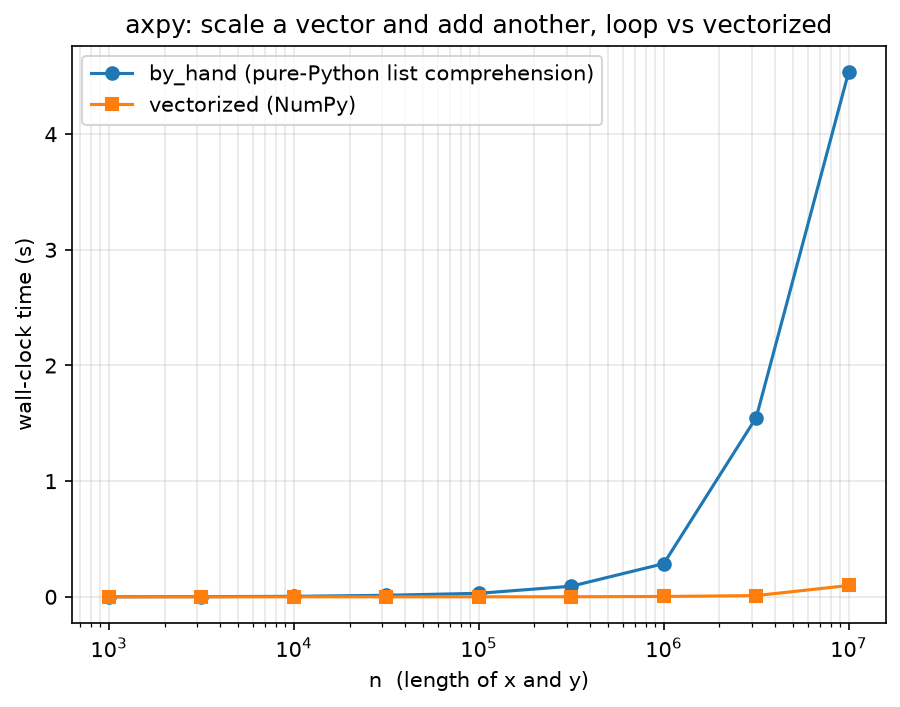
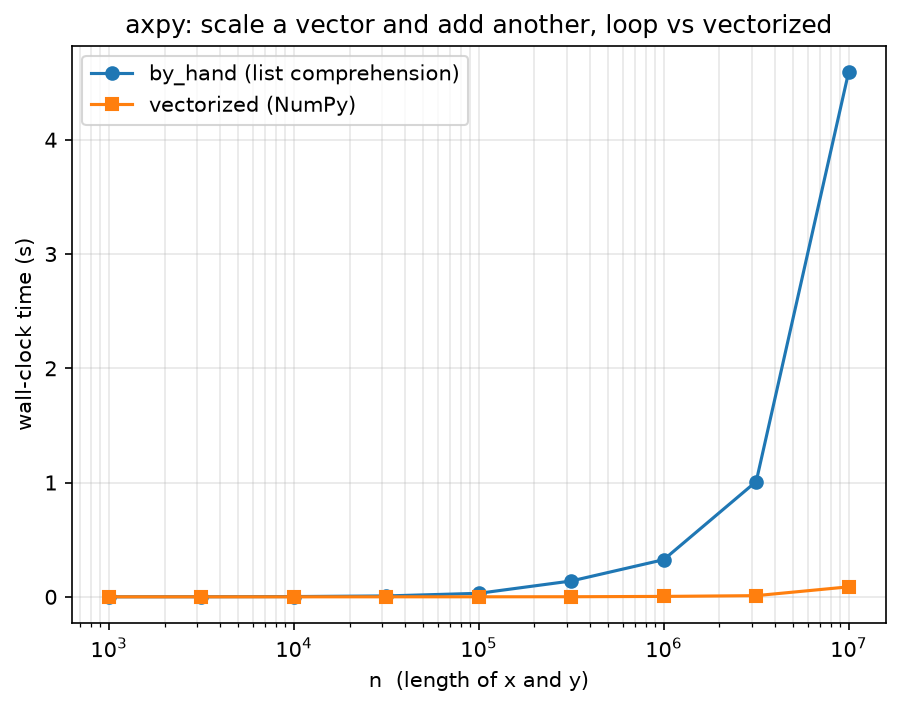
Ch 1: pivot code to an executed Jupyter notebook (ch01.ipynb); render 1.0 nb-style in the book (code + output + figure); add AlphaTensor footnote; drop .py scripts
Claude-Session: https://claude.ai/code/session_01QHVo4KzARxbxqYrtrErhpz

diff --git a/chapter_drafts/clae-chapter-01/1-vectors-and-linear-combinations.md b/chapter_drafts/clae-chapter-01/1-vectors-and-linear-combinations.md
@@ -20,24 +20,50 @@ NumPy is not math in Python. Python is a high-level wrapper around C, and NumPy 
 We will compute axpy itself, on real arrays: two vectors `x` and `y` of ten million numbers, and a single scalar `a`. We compute it two ways and time both: a pure-Python list comprehension over the entries, and NumPy's vectorized expression.
 
 ```python
+import time
 import numpy as np
+
 
 def by_hand(a, x, y):       # pure Python, a list comprehension over the entries
     return [a * xi + yi for xi, yi in zip(x, y)]
+
 
 def vectorized(a, x, y):    # NumPy, the whole array at once
     return a * x + y
 ```
 
+```python
+a = 2.5
+rng = np.random.default_rng(0)
+x, y = rng.random(10_000_000), rng.random(10_000_000)
+
+t0 = time.perf_counter(); by_hand(a, x, y)
+t_loop = time.perf_counter() - t0
+t0 = time.perf_counter(); vectorized(a, x, y)
+t_vec = time.perf_counter() - t0
+
+print(f'list comprehension: {t_loop:5.2f} s')
+print(f'vectorized:         {t_vec * 1e3:5.0f} ms')
+print(f'factor:             {t_loop / t_vec:5.0f}x')
+```
+
+```text
+list comprehension:  4.34 s
+vectorized:           138 ms
+factor:                32x
+```
+
+Both return the same numbers; they do not take the same time. The list comprehension is dozens of times slower, and the gap only widens with `n`. A gap that large is worth chasing.
+
 ![axpy timing: loop vs vectorized](figures/fig_axpy_timing.png)
 
 > **Figure 1.1.** Wall-clock time of `by_hand` (a pure-Python list comprehension) against `vectorized` (NumPy) for axpy, swept over `n` from a thousand to ten million, with a log x-axis and a linear y-axis. The vectorized call stays flat against the floor while the list comprehension's cost climbs away. Measured on a 4-vCPU cloud VM.
 
-Both return the same numbers; they do not take the same time. At ten million entries the list comprehension takes around five seconds and the vectorized call about ninety milliseconds, a factor of roughly fifty. A gap that large is worth chasing.
-
 The loop is slow because Python is doing far more than arithmetic. For each of the ten million entries the interpreter resolves types, boxes and unboxes objects, checks bounds, and dispatches the operators, and only underneath all of that does it finally multiply and add. NumPy's `a * x + y` skips every bit of that per-entry overhead: the whole array goes to a compiled loop the interpreter never re-enters. That is where the gap comes from. It is a software win, not a hardware trick.
 
-The operation that compiled loop is built around is axpy, and it is among the most carefully tuned routines in numerical computing. At the very bottom axpy is a single hardware instruction, the fused multiply-add, that modern processors run many of at once. So it is software the whole way down to one operation the silicon was built to do in a single step: scale, and add.
+The operation that compiled loop is built around is axpy, and it is among the most carefully tuned routines in numerical computing. At the very bottom axpy is a single hardware instruction, the fused multiply-add, that modern processors run many of at once. So it is software the whole way down to one operation the silicon was built to do in a single step: scale, and add.[^alphatensor]
+
+[^alphatensor]: DeepMind's AlphaTensor (2022) and AlphaEvolve (2025) did find faster algorithms, but for matrix *multiplication*: ways to combine many multiply-adds with fewer scalar multiplications than Strassen. The atomic axpy is not what they improved; it is already the irreducible step.
 
 So look again at the operation we opened with. To scale a vector by a number and add it to another is to form a linear combination, and you have just watched your machine treat it as the most important thing it knows how to do. That is not a coincidence. We poured decades of engineering into axpy precisely because nearly everything we wanted to compute was built out of it. Least squares finds the combination of features closest to a price; principal component analysis finds the combinations that carry the most variation; the Kalman filter blends a prediction and a measurement into one combination and calls it an estimate. Learn to see linear combinations everywhere, and the rest of the book is commentary.
 